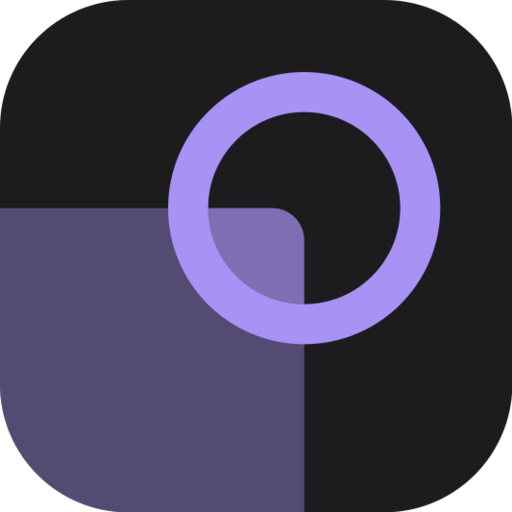
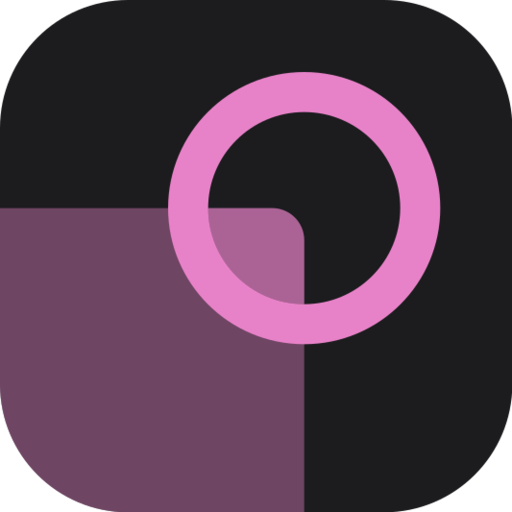
ui, fixtures: switch the accent to Coating Magenta and add the Ultra HDR fixture.
The accent moves from violet (hue 293) to magenta (hue 340), as decided before phase 1 but never
written into `DESIGN.md`, which still named violet; violet sat too close to Art Cleaner's indigo (277).
Magenta is the one hue clear of the sister sites' accents and of the red and green status colours.

* `src/index.css`: light accent `oklch(0.54 0.21 340)` with white text (5.7:1, 3.3:1 on the stage),
  dark accent `oklch(0.74 0.15 340)` with dark ink (7.2:1), and hover, soft, text, focus and
  stage-focus to match. `src/contrast.test.ts` now expects hue 340; every pair still passes.
* The icon, the maskable icon, their PNGs and `Logo` in the dark theme's magenta (`#e882c8`).
* `DESIGN.md` renames Lens Violet to Coating Magenta and says why; every "violet" in `DESIGN.md` and
  `CLAUDE.md` now says magenta.
* `fixtures/ultra-hdr.jpg`: libultrahdr publishes no Ultra HDR image under 1 MB, so
  `tools/ultrahdr/Dockerfile` builds its `ultrahdr_app` (pinned, with `UHDR_WRITE_XMP`) and
  `scripts/fixtures.ts` encodes a 64 × 48 HLG picture with it: a single-channel gain map in MPF,
  described in hdrgm XMP and ISO 21496-1. `SPEC.md` and `CLAUDE.md` say how it's made.

diff --git a/src/index.css b/src/index.css
@@ -1,6 +1,6 @@
 @import 'tailwindcss';
 
-/* Zinc neutrals and one violet accent, the tint of coated lens glass (the next action, selection, the
+/* Zinc neutrals and one magenta accent, the glint of a coated lens (the next action, selection, the
    crop frame, redaction outlines, the map pin, focus, progress). The stage is near-black in both themes
    so the picture can be judged. Light and dark follow the system unless one is chosen; `data-theme` on
    <html> is always the one in use (set in index.html). src/contrast.test.ts checks the pairs DESIGN.md
@@ -19,12 +19,12 @@
   --color-ink-faint: oklch(0.6 0.01 286);
   /* Deep enough to carry white text and still hold 3:1 on the dark stage, so crop handles read on the
      picture. Hover deepens it. */
-  --color-accent: oklch(0.52 0.19 293);
-  --color-accent-hover: oklch(0.47 0.19 293);
+  --color-accent: oklch(0.54 0.21 340);
+  --color-accent-hover: oklch(0.49 0.21 340);
   --color-accent-ink: oklch(1 0 0);
-  --color-accent-soft: oklch(0.95 0.03 293);
-  --color-accent-text: oklch(0.5 0.19 293);
-  --color-focus: oklch(0.5 0.19 293);
+  --color-accent-soft: oklch(0.95 0.03 340);
+  --color-accent-text: oklch(0.52 0.2 340);
+  --color-focus: oklch(0.52 0.2 340);
   --color-danger: oklch(0.55 0.2 25);
   --color-danger-soft: oklch(0.96 0.03 25);
   --color-ok: oklch(0.55 0.13 155);
@@ -35,9 +35,9 @@
   --color-stage-ink: oklch(0.9 0.003 286);
   --color-stage-ink-soft: oklch(0.72 0.006 286);
   --color-stage-line: oklch(0.52 0.006 286);
-  /* The light theme's focus violet can't hold 3:1 on the stage, so focus rings there use the dark
+  /* The light theme's focus magenta can't hold 3:1 on the stage, so focus rings there use the dark
      theme's in both. */
-  --color-stage-focus: oklch(0.8 0.1 295);
+  --color-stage-focus: oklch(0.82 0.1 340);
   --color-stage-light: oklch(0.93 0.003 286);
   --color-stage-light-ink: oklch(0.21 0.006 286);
 
@@ -58,13 +58,13 @@
   --color-ink: oklch(0.965 0.002 286);
   --color-ink-soft: oklch(0.74 0.01 286);
   --color-ink-faint: oklch(0.6 0.01 286);
-  /* Lighter violet on dark panels, with dark ink on it; hover lightens it. */
-  --color-accent: oklch(0.72 0.14 293);
-  --color-accent-hover: oklch(0.76 0.13 293);
+  /* Lighter magenta on dark panels, with dark ink on it; hover lightens it. */
+  --color-accent: oklch(0.74 0.15 340);
+  --color-accent-hover: oklch(0.78 0.14 340);
   --color-accent-ink: oklch(0.21 0.006 286);
-  --color-accent-soft: oklch(0.3 0.06 293);
-  --color-accent-text: oklch(0.8 0.1 295);
-  --color-focus: oklch(0.8 0.1 295);
+  --color-accent-soft: oklch(0.3 0.06 340);
+  --color-accent-text: oklch(0.82 0.1 340);
+  --color-focus: oklch(0.82 0.1 340);
   --color-danger: oklch(0.68 0.18 25);
   --color-danger-soft: oklch(0.28 0.06 25);
   --color-ok: oklch(0.72 0.14 155);

diff --git a/scripts/fixtures.ts b/scripts/fixtures.ts
@@ -1,7 +1,8 @@
 // Makes fixtures/ (SPEC.md section 12): small pictures generated here, and public samples copied from
 // pinned URLs, whose sources and licences it writes to fixtures/SOURCES.md. The output is committed; run
-// `pnpm fixtures` only to change or add one. Needs ImageMagick on PATH (GIF, BMP, TIFF) and Docker
-// (HEIC: this machine's ImageMagick reads HEIC but can't write it, so libheif's heif-enc runs in Alpine).
+// `pnpm fixtures` only to change or add one. Needs ImageMagick on PATH (GIF, BMP, TIFF) and Docker: HEIC
+// comes from libheif's heif-enc in Alpine (this machine's ImageMagick reads HEIC but can't write it), and
+// Ultra HDR from libultrahdr's ultrahdr_app, built once from tools/ultrahdr/Dockerfile.
 //
 // Generated files stay under 300 kB and samples under 1 MB (scripts/fixtures.test.ts checks both).
 import { execFileSync } from 'node:child_process'
@@ -164,6 +165,49 @@ execFileSync(
   { stdio: 'inherit' },
 )
 write('photo.heic', readFileSync(join(scratch, 'photo.heic')))
+
+// Ultra HDR: libultrahdr encodes a 10-bit HLG picture of the same pattern (BT.2100, full range), making
+// the SDR base and a single-channel gain map, described in hdrgm XMP and ISO 21496-1 metadata. SDR white
+// sits at about 0.75 of the HLG signal; the corner square and the bottom rows go above it, so the gain map
+// has highlights to lift.
+const hdr = new Uint32Array(64 * 48)
+for (let i = 0; i < hdr.length; i++) {
+  const [x, y] = [i % 64, Math.floor(i / 64)]
+  const bright = (x < 8 && y < 8) || y >= 40
+  const rgb = bright ? [1, 1, 1] : [0, 1, 2].map((c) => (base.data[i * 4 + c] / 255) * 0.75)
+  const [r, g, b] = rgb.map((v) => Math.round(v * 1023))
+  hdr[i] = (r | (g << 10) | (b << 20) | (3 << 30)) >>> 0 // RGBA 10:10:10:2, little-endian
+}
+writeFileSync(join(scratch, 'hdr.raw'), new Uint8Array(hdr.buffer))
+execFileSync('docker', ['build', '-q', '-t', 'loupe-ultrahdr', join(root, 'tools', 'ultrahdr')], { stdio: 'ignore' })
+const uhdr = [
+  '-m',
+  '0',
+  '-p',
+  '/w/hdr.raw',
+  '-a',
+  '5',
+  '-w',
+  '64',
+  '-h',
+  '48',
+  '-C',
+  '2',
+  '-t',
+  '1',
+  '-R',
+  '1',
+  '-M',
+  '0',
+]
+execFileSync(
+  'docker',
+  ['run', '--rm', '-v', `${scratch}:/w`, 'loupe-ultrahdr', ...uhdr, '-q', '90', '-Q', '85', '-z', '/w/uhdr.jpg'],
+  {
+    stdio: 'ignore',
+  },
+)
+write('ultra-hdr.jpg', readFileSync(join(scratch, 'uhdr.jpg')))
 
 write('notimage.txt', 'This is a text file, not a picture.\n')
 

diff --git a/scripts/fixtures.test.ts b/scripts/fixtures.test.ts
@@ -10,7 +10,7 @@ const generated = readdirSync(fixtures, { withFileTypes: true })
 
 // SPEC.md section 12.
 const BASES = ['png-16-alpha.png', 'lossy.webp', 'lossless.webp', 'photo.avif', 'photo.jxl', 'lossless.jxl']
-const MORE = ['anim.gif', 'picture.bmp', 'photo.heic', 'scan.tif', 'grid-444.jpg', 'grid-420.jpg']
+const MORE = ['anim.gif', 'picture.bmp', 'photo.heic', 'scan.tif', 'grid-444.jpg', 'grid-420.jpg', 'ultra-hdr.jpg']
 const ODD = ['trailer-zip.jpg', 'misnamed.png', 'notimage.txt']
 
 describe('fixtures/', () => {
@@ -36,6 +36,13 @@ describe('fixtures/', () => {
       for (const name of readdirSync(join(fixtures, folder.name))) expect(listed).toContain(`${folder.name}/${name}`)
     expect(readFileSync(join(fixtures, 'SOURCES.md'), 'utf8')).toBe(sourcesMarkdown())
   })
+})
+
+it('has an Ultra HDR JPEG: a gain map in MPF, described in hdrgm XMP and ISO 21496-1', () => {
+  const uhdr = readFileSync(join(fixtures, 'ultra-hdr.jpg')).toString('latin1')
+  expect(uhdr).toContain('MPF')
+  expect(uhdr).toContain('hdrgm:Version')
+  expect(uhdr).toContain('urn:iso:std:iso:ts:21496')
 })
 
 describe('SAMPLES', () => {

diff --git a/src/components/Logo.tsx b/src/components/Logo.tsx
@@ -15,11 +15,11 @@ export function Logo({ className }: { className?: string }) {
         </clipPath>
       </defs>
       <rect width="32" height="32" rx="8" fill="#1c1c1f" />
-      <g fill="#a892f4" clipPath={`url(#${id}-tile)`}>
+      <g fill="#e882c8" clipPath={`url(#${id}-tile)`}>
         <rect x="-3" y="13" width="22" height="22" rx="2" opacity="0.4" />
         <rect x="-3" y="13" width="22" height="22" rx="2" opacity="0.5" clipPath={`url(#${id}-glass)`} />
       </g>
-      <circle cx="19" cy="13" r="7.25" fill="none" stroke="#a892f4" strokeWidth="2.5" />
+      <circle cx="19" cy="13" r="7.25" fill="none" stroke="#e882c8" strokeWidth="2.5" />
     </svg>
   )
 }

diff --git a/src/contrast.test.ts b/src/contrast.test.ts
@@ -93,12 +93,12 @@ describe.each([
     expect(theme.stage[1]).toBeLessThanOrEqual(0.005)
   })
 
-  it('keeps the accent violet', () => {
-    expect(theme.accent[2]).toBe(293)
+  it('keeps the accent magenta, clear of the sister sites’ accents and the danger red', () => {
+    expect(theme.accent[2]).toBe(340)
   })
 })
 
-it('puts white text on the light theme’s violet and dark ink on the dark theme’s', () => {
+it('puts white text on the light theme’s magenta and dark ink on the dark theme’s', () => {
   expect(light['accent-ink']).toEqual([1, 0, 0])
   expect(dark['accent-ink']).toEqual(light.ink)
 })

diff --git a/scripts/samples.ts b/scripts/samples.ts
@@ -1,7 +1,7 @@
 // The public samples in fixtures/ (SPEC.md section 12): where each comes from, pinned to a commit, and its
 // licence. scripts/fixtures.ts fetches them and writes fixtures/SOURCES.md from this table.
 //
-// Still missing: an Ultra HDR image. libultrahdr publishes none under 1 MB (CLAUDE.md, Image facts).
+// libultrahdr publishes no Ultra HDR image under 1 MB, so scripts/fixtures.ts makes one with it instead.
 
 export type Sample = { path: string; url: string; licence: string; note: string }
 

diff --git a/DESIGN.md b/DESIGN.md
@@ -2,12 +2,12 @@
 name: Loupe
 description: A quiet inspection bench where the picture is the only colour on screen, every finding says how sure it is, and every action says whether it loses quality.
 colors:
-  accent: "oklch(0.52 0.19 293)"
-  accent-hover: "oklch(0.47 0.19 293)"
+  accent: "oklch(0.54 0.21 340)"
+  accent-hover: "oklch(0.49 0.21 340)"
   accent-ink: "oklch(1 0 0)"
-  accent-soft: "oklch(0.95 0.03 293)"
-  accent-text: "oklch(0.5 0.19 293)"
-  focus: "oklch(0.5 0.19 293)"
+  accent-soft: "oklch(0.95 0.03 340)"
+  accent-text: "oklch(0.52 0.2 340)"
+  focus: "oklch(0.52 0.2 340)"
   canvas: "oklch(0.975 0.002 286)"
   panel: "oklch(1 0 0)"
   stage: "oklch(0.18 0.003 286)"
@@ -104,7 +104,7 @@ components:
 
 A light table with a loupe on it: neutral surfaces, a rail of tools, a settings column of short
 labelled findings and controls, and a dark stage where the picture sits to be examined up close.
-Nothing on screen competes with the picture; the one violet accent marks the next thing to press,
+Nothing on screen competes with the picture; the one magenta accent marks the next thing to press,
 the current selection, the crop frame and whatever is in progress. The system is Moviola's (itself
 Bytesize's and Art Cleaner's), with its own accent so the sister sites are told apart at a glance,
 and three additions for inspection: findings that say how sure they are, a sheet for long tables of
@@ -115,7 +115,7 @@ Light and dark are equal citizens and follow the system setting unless one is ch
 header's theme menu. Motion is limited to 150–200 ms state changes.
 
 **Key Characteristics:**
-- Zinc neutrals in OKLCH (hue 286), one violet accent (hue 293), the tint of coated lens glass.
+- Zinc neutrals in OKLCH (hue 286), one magenta accent (hue 340), the glint of a coated lens.
 - System UI type with tabular figures everywhere; a monospace face only for raw values (tag values
   in the sheet, hashes, coordinates, hex colours).
 - Hairline borders and tonal layers instead of shadows; one floating shadow for overlays.
@@ -123,14 +123,18 @@ header's theme menu. Motion is limited to 150–200 ms state changes.
 
 ## Colors
 
-Neutral zinc greys with a single violet; the picture supplies every other colour.
+Neutral zinc greys with a single magenta; the picture supplies every other colour.
 
 ### Primary
-- **Lens Violet** (accent): the primary action (Save, Remove, Crop…), switches that are on, slider
-  ranges, the crop frame and its handles, redaction box outlines, the map pin and progress bars. In
-  the light theme it's deep enough (0.52 L) to carry white text at 6:1 and still hold 3:1 on the dark
-  stage, so crop handles read on the picture. The dark theme's is lighter (0.72 L) with dark ink text
-  on it (6.8:1). accent-ink is white in light, dark ink in dark. Hover deepens it in light and
+- **Coating Magenta** (accent): the primary action (Save, Remove, Crop…), switches that are on,
+  slider ranges, the crop frame and its handles, redaction box outlines, the map pin and progress
+  bars. Named after the magenta glint of a coated camera lens. The sister sites' accents are amber
+  (Moviola, hue 55–70), teal (Bytesize, 186) and indigo (Art Cleaner, 277), and the status colours
+  sit at red 25 and green 155, so magenta (340) is the one hue clearly apart from all of them; it's
+  45° from the danger red and reads as a different colour (#b72494 against #cc272e). In the light
+  theme it's deep enough (0.54 L) to carry white text at 5.7:1 and still hold 3.3:1 on the dark
+  stage, so crop handles read on the picture. The dark theme's is lighter (0.74 L) with dark ink
+  text on it (7.2:1). accent-ink is white in light, dark ink in dark. Hover deepens it in light and
   lightens it in dark. accent-text is the readable version for links; accent-soft is the
   text-selection and drop-overlay tint.
 - **Focus** (focus): focus rings and the selected tool's indicator. accent-text in both themes. On the
@@ -152,17 +156,17 @@ Dark mode redefines every token under `:root[data-theme='dark']` in `src/index.c
 is always the theme in use, set before the first paint by a script in `index.html` from the shared
 `theme` cookie or the system, then kept by `useTheme`; nothing in the CSS reads
 `prefers-color-scheme` itself): neutrals as Moviola (canvas 0.165 L, panel 0.2 L, ink 0.965 L), stage
-0.13 L, accent `oklch(0.72 0.14 293)`, accent-hover `oklch(0.76 0.13 293)`, accent-ink
-`oklch(0.21 0.006 286)`, accent-soft `oklch(0.3 0.06 293)`, accent-text and focus
-`oklch(0.8 0.1 295)`, danger `oklch(0.68 0.18 25)`, ok `oklch(0.72 0.14 155)`. Check every pair's
+0.13 L, accent `oklch(0.74 0.15 340)`, accent-hover `oklch(0.78 0.14 340)`, accent-ink
+`oklch(0.21 0.006 286)`, accent-soft `oklch(0.3 0.06 340)`, accent-text and focus
+`oklch(0.82 0.1 340)`, danger `oklch(0.68 0.18 25)`, ok `oklch(0.72 0.14 155)`. Check every pair's
 contrast when changing a token (`src/contrast.test.ts`).
 
 ### Named Rules
-**The Picture Owns Colour Rule.** Nothing but the violet accent and the two status colours carries
+**The Picture Owns Colour Rule.** Nothing but the magenta accent and the two status colours carries
 chroma. The stage stays neutral so colour and compression artefacts can be judged. Forensic layers
 (error levels, noise) are greyscale.
 
-**The Accent Means Act Rule.** Violet appears only on the next action, the current selection, the
+**The Accent Means Act Rule.** Magenta appears only on the next action, the current selection, the
 crop frame, redaction outlines, the map pin, focus and progress; never as decoration.
 
 **The Honest Label Rule.** Every primary action shows, next to it, whether it is lossless or
@@ -231,7 +235,7 @@ The empty stage uses a 2 px dashed outline as the drop target. The magnifier is 
 ## Components
 
 ### Buttons
-As Moviola: 8 px radius; heights 28 / 36 / 44 px. Primary is violet with accent-ink text; secondary
+As Moviola: 8 px radius; heights 28 / 36 / 44 px. Primary is magenta with accent-ink text; secondary
 is panel with a line-strong ring; ghost is ink-soft text with a sunken hover. Icons are lucide at
 16 px, 1.75–2 stroke, before the label.
 
@@ -284,8 +288,8 @@ chip. Toggled with `L` or the toolbar button. Keyboard users move it with the ar
 ten with Shift) once the stage has focus.
 
 ### Map
-The Location tool's stage view. Leaflet, fitted to the stage, with a violet pin at the picture's
-location, a translucent violet cone for the camera's field of view when the direction is known, and a
+The Location tool's stage view. Leaflet, fitted to the stage, with a magenta pin at the picture's
+location, a translucent magenta cone for the camera's field of view when the direction is known, and a
 thin ink line towards the sun when its position is known. Offline it draws the bundled world map:
 sunken land, canvas sea, line borders. Online it switches to OpenStreetMap's tiles once the first
 tile loads, with the attribution in caption type at the bottom-right. Zoom buttons follow the stage
@@ -298,10 +302,10 @@ Form (icon) and words carry the meaning, not colour alone. A short caption under
 re-encoding touches ("The picture is re-encoded at quality 90; metadata is copied.").
 
 ### Crop frame and redaction boxes
-The crop frame is a 2 px violet rectangle with eight square handles (12 px, 24 px hit area) and a
+The crop frame is a 2 px magenta rectangle with eight square handles (12 px, 24 px hit area) and a
 rule-of-thirds grid while dragging; outside it the picture is dimmed to 40%. When a JPEG crop is
 snapped to the lossless grid, a caption chip says "On the 16 px grid: lossless". Redaction boxes are
-drawn with a 2 px violet outline and show their fill (black, blur or pixelate) inside; the selected
+drawn with a 2 px magenta outline and show their fill (black, blur or pixelate) inside; the selected
 box has handles. Handles and boxes are focusable: arrow keys move by a pixel (ten with Shift),
 Alt+arrow resizes, Delete removes a box.
 
@@ -310,7 +314,7 @@ As Moviola. Number fields gain units: px, %, °, kB, MB. Adjustment sliders are 
 a tick at zero, and double-clicking one resets it.
 
 ### Progress
-Replaces the primary action while a job runs: a violet bar filling left to right, the percentage in
+Replaces the primary action while a job runs: a magenta bar filling left to right, the percentage in
 caption type, and a secondary "Cancel" button. Indeterminate phases (reading metadata, loading a
 codec) use a pulsing bar.
 
@@ -324,7 +328,7 @@ the reason.
 
 ### Do:
 - **Do** keep the stage neutral and let the picture be the only colour.
-- **Do** use the violet accent only for the next action, selection, the crop frame, redaction
+- **Do** use the magenta accent only for the next action, selection, the crop frame, redaction
   outlines, the map pin, focus and progress.
 - **Do** label every action Lossless or Re-encodes, with an icon as well as words.
 - **Do** say what every finding rests on, with an icon as well as words.
@@ -333,7 +337,7 @@ the reason.
 - **Do** keep colour transitions to 150–200 ms.
 
 ### Don't:
-- **Don't** put white text on the dark theme's violet, or dark text on the light theme's.
+- **Don't** put white text on the dark theme's magenta, or dark text on the light theme's.
 - **Don't** use danger red, warning triangles or alarm language for AI or privacy findings.
 - **Don't** use gradients, glass, glows, lens flares, magnifying-glass clip art or detective kitsch
   in the interface. The app icon (a lens ring over the corner of a print) is the one place a lens

diff --git a/SPEC.md b/SPEC.md
@@ -657,7 +657,8 @@ field involved.
 
 ### Fixtures (`fixtures/`, made by `pnpm fixtures`, committed)
 `scripts/fixtures.ts` runs in Node: it makes small base pictures with jSquash's encoders (and
-ImageMagick for HEIC and TIFF, ffmpeg for the Motion Photo's video), writes metadata with the same
+ImageMagick for GIF, BMP and TIFF, libheif in Docker for HEIC, libultrahdr in Docker for Ultra HDR,
+ffmpeg for the Motion Photo's video), writes metadata with the same
 ExifTool WebAssembly the app uses or with its own chunk writers, and copies a few public samples
 whose source and licence it records in `fixtures/SOURCES.md`. Generated files stay under 300 kB,
 samples under 1 MB. At least:
@@ -677,7 +678,7 @@ samples under 1 MB. At least:
 | `a1111.png`, `a1111.jpg`, `comfyui.png`, `comfyui.webp`, `novelai.png`, `stealth.png`, `invokeai.png`, `swarmui.png`, `midjourney.png` | each generator's markers as section 6.3 lists | AI check parsers |
 | `iptc-ai.jpg` | Digital Source Type trainedAlgorithmicMedia only | IPTC source |
 | C2PA samples (from the C2PA SDK's public test files) | a valid signed manifest, one with generative AI actions, one tampered | C2PA validation and verdicts |
-| Ultra HDR sample (from libultrahdr's public test images) | a gain map | HDR kind, gain map extraction, dropped on edit |
+| `ultra-hdr.jpg` | 64 × 48, encoded by libultrahdr from a 10-bit HLG picture: a single-channel gain map in MPF, described in hdrgm XMP and ISO 21496-1 | HDR kind, gain map extraction, dropped on edit |
 | ExifTool's maker-note test images (from its distribution's `t/images`) | Nikon, Canon, Sony, Pentax and others | shutter count, serials, lenses |
 | `png-16-alpha.png`, `lossy.webp`, `lossless.webp`, `photo.avif`, `photo.jxl`, `lossless.jxl`, `anim.gif`, `picture.bmp`, `photo.heic`, `scan.tif` | each format | opening, lossless rules, output formats |
 | `misnamed.png` | a JPEG named `.png` | extension mismatch |

diff --git a/CLAUDE.md b/CLAUDE.md
@@ -67,7 +67,7 @@ change libjpeg-turbo's version or flags.
 ## Design
 
 PRODUCT.md (who it's for, voice, principles) and DESIGN.md (tokens and rules) are the authorities
-for UI work; tokens live in `src/index.css`. Keep to them: zinc neutrals, one violet accent for action,
+for UI work; tokens live in `src/index.css`. Keep to them: zinc neutrals, one magenta accent for action,
 selection, the crop frame and progress, a dark neutral stage so the picture can be judged,
 sentence-case labels, state shown by form as well as colour, light and dark both first-class. Every
 action says whether it is lossless or re-encodes; every finding says what it rests on.
@@ -161,7 +161,10 @@ Checked while writing the spec; re-check each when its phase uses it, and correc
   makes `photo.heic` with libheif's `heif-enc` and its x265 plugin in an Alpine container
   (`libheif-tools libheif-plugins-all`).
 - libultrahdr publishes no Ultra HDR sample under 1 MB: its `tests/data` holds only Apple gain maps,
-  and the smallest image in its benchmark set (`jpegr/mountains.jpg`) is 4.9 MB.
+  and the smallest image in its benchmark set (`jpegr/mountains.jpg`) is 4.9 MB. So `pnpm fixtures`
+  builds its `ultrahdr_app` (`tools/ultrahdr/Dockerfile`, pinned) and encodes `ultra-hdr.jpg`. It writes
+  only ISO 21496-1 gain map metadata unless built with `UHDR_WRITE_XMP`, and that XMP describes a
+  single-channel gain map only (`-M 0`); phones write both.
 - jSquash's packages have no `exports` map, so Node needs `@jsquash/jpeg/encode.js` with the
   extension; its codecs are initialised with a compiled module (`init(module)`), as Bytesize's tests do.
 - `libheif-js` is LGPL-3.0. Use its separate `libheif-wasm/libheif.wasm` (1.5 MB), not the 2 MB
